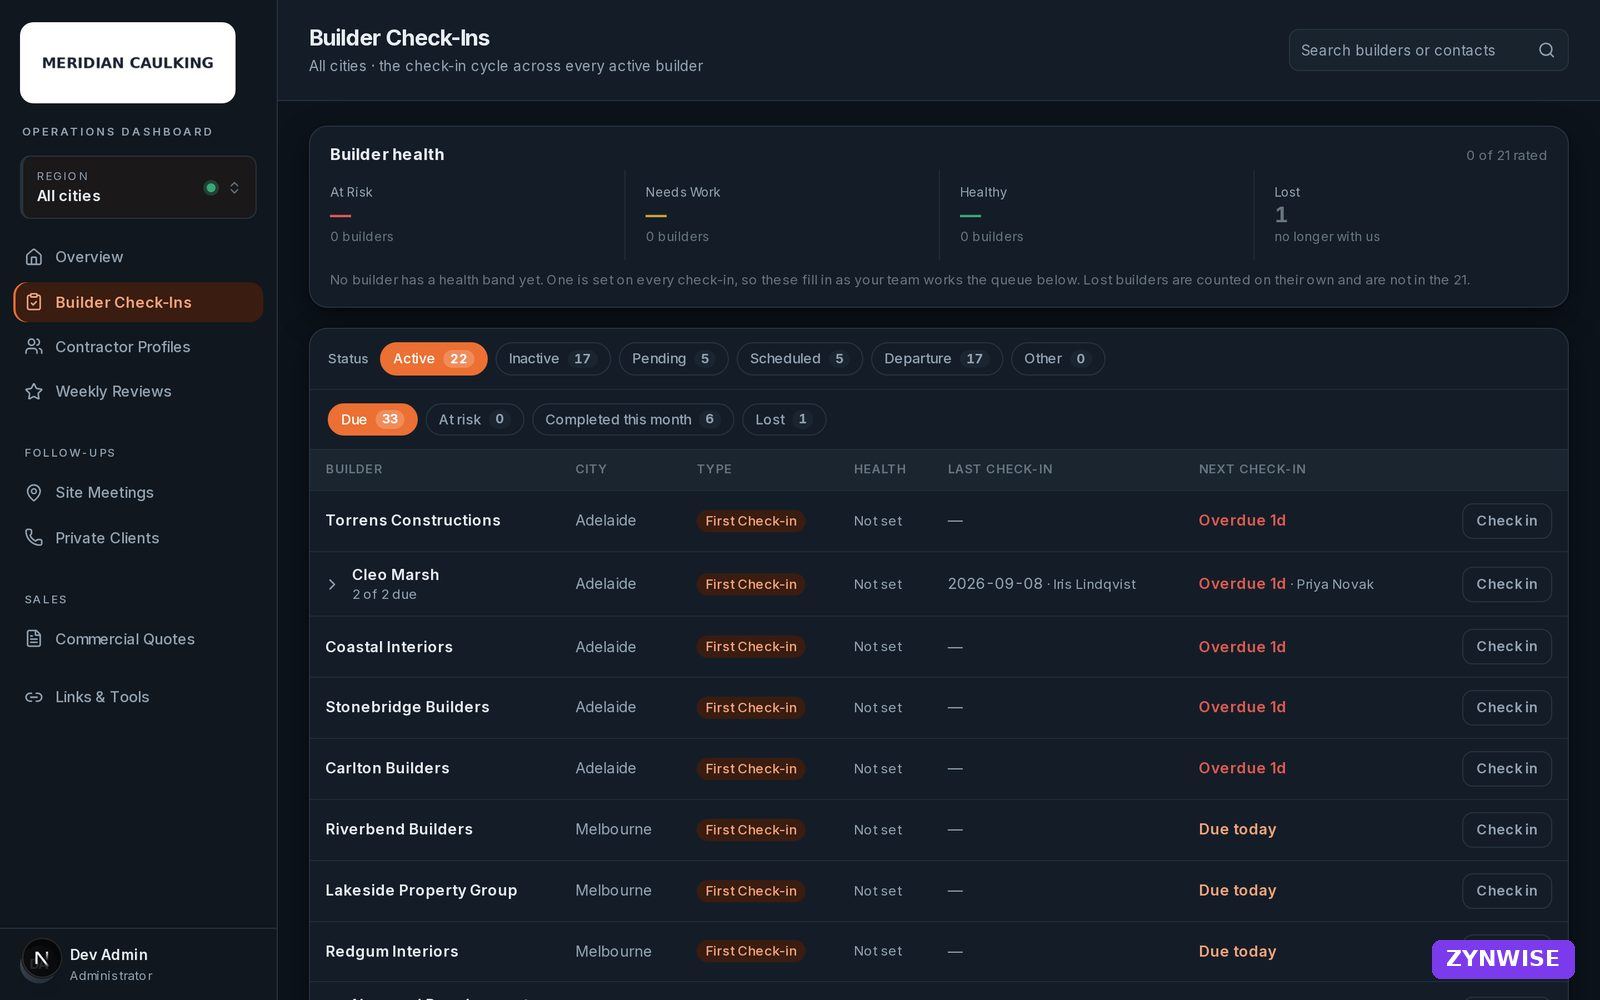
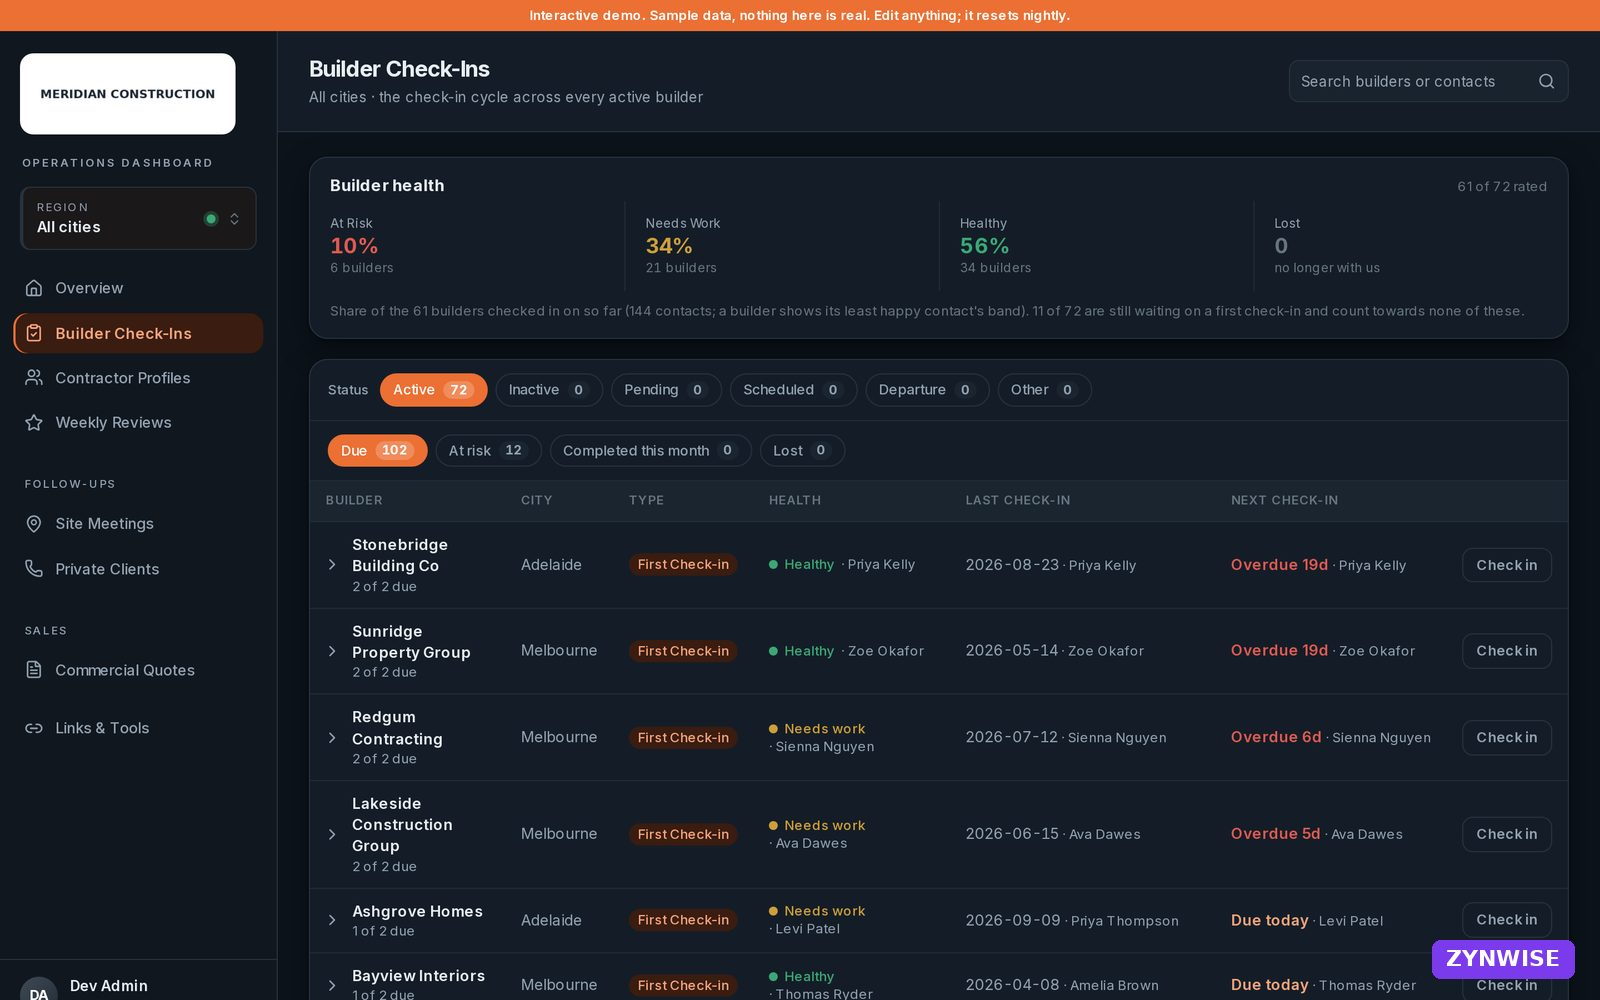
Portfolio: screenshots recaptured from the live demo

diff --git a/portfolio/index.html b/portfolio/index.html
@@ -280,7 +280,7 @@ footer .small{display:flex;justify-content:space-between;gap:24px;font-size:12px
   <div><div class="mono" style="color:var(--accent)">Selected work</div><h2 class="display">Systems I have shipped</h2><p class="sub">Three recent engagements, each taken from the first conversation through to a system the team uses every day.</p></div>
 
   <div class="row">
-    <a class="frame" id="demo-link" aria-label="Operations dashboard, sample data"><img src="assets/admin-home.jpg" alt="Operations dashboard overview with sample data" loading="lazy"><span class="badge">SAMPLE DATA</span></a>
+    <a class="frame" id="demo-link" aria-label="Operations dashboard, sample data"><img src="assets/admin-home.jpg" alt="Operations dashboard overview, Meridian Construction demo" loading="lazy"><span class="badge">SAMPLE DATA</span></a>
     <div class="text"><div class="k">Operations dashboard · Production web app</div><h3 class="display">Recovered ~500 hours a year.</h3>
       <ul><li><span><b>What it is.</b> A production dashboard for a three-city trade business: builder check-ins, contractor profiles, four sales queues and gross profit in one place.</span></li>
       <li><span><b>Why it exists.</b> Managers were rebuilding the week by hand from Tradify, Xero, Notion and Sheets, and the numbers rarely agreed.</span></li>
@@ -317,7 +317,7 @@ footer .small{display:flex;justify-content:space-between;gap:24px;font-size:12px
     <div class="ctas"><a class="btn primary" href="mailto:charlie@zynwise.com">Email Charlie</a><a class="btn ghost" id="linkedin" href="https://www.linkedin.com/" rel="noopener">LinkedIn</a></div>
   </div>
   <div class="facts"><div><div class="k">Based in</div><b>Brisbane, Australia</b></div><div><div class="k">Working arrangement</div><b>On site, hybrid or remote</b></div><div><div class="k">Availability</div><b>Available now</b></div></div>
-  <div class="small"><span>Dashboard screens show the delivered application with fictional names and randomised figures. Figures marked estimated or projected are labelled as such and are replaced by measured results at each project's close.</span><span class="mono" style="white-space:nowrap">Charlie Jessey · 2026</span></div>
+  <div class="small"><span>Dashboard screens are from the live demo: the delivered application on synthetic data, with fictional names and figures. Figures marked estimated or projected are labelled as such and are replaced by measured results at each project's close.</span><span class="mono" style="white-space:nowrap">Charlie Jessey · 2026</span></div>
 </div></footer>
 
 <script>
